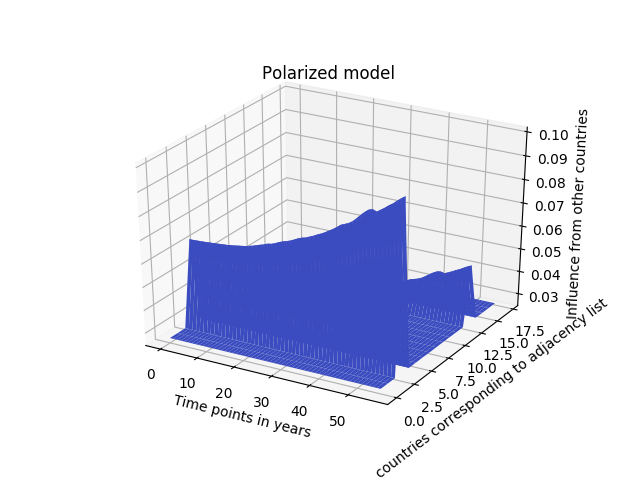
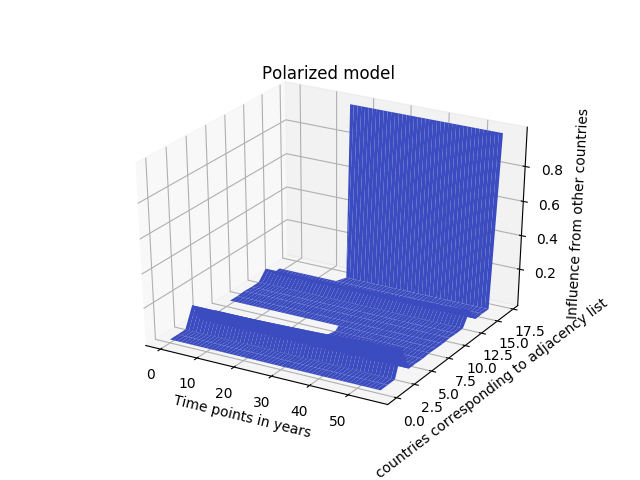
Beautified the reworked polarizations plots.

diff --git a/python/rmse_fitter.py b/python/rmse_fitter.py
@@ -1,0 +1,136 @@
+#!/usr/bin/python3
+"""
+created by alex on 2/10/18
+
+fits r and epsilon based on the best rmse
+"""
+
+
+import numpy as np
+import pandas as pd
+
+
+def rmse(predictions, targets):
+	"""
+	Computes the root mean squared error
+
+	:param predictions: predicted values
+	:param targets: Actual values
+
+	:return: root mean squared error
+	"""
+	return np.sqrt(((predictions - targets) ** 2).mean())
+
+
+def normalize(x, min_x, max_x):
+	"""
+	Goal of this function is to normalize passed data given the min and max of the data to fit in 0 - 1
+
+	:param x: Array Like structure: The data to be normalized
+	:param min_x: Float like: The minimum of the data set
+	:param max_x: Float like: The maximum of the data set
+
+	:return: Array: The normalized data in an array with values ranging from 0 to 1
+	"""
+	return (x - min_x) / (max_x - min_x)
+
+
+def param_value_finder():
+	# Index_col=58 represents dropping out the unnamed column from the csv
+	df = pd.read_csv("data/North_America_GDP.csv", header=0, index_col=58)
+
+	# Generates an numpy nd array with the indexes of 0th index as country array with 57 years as position in array and gdp
+	# Being the value at that 'year'. With index 0 being the name of the country
+	gdp_matrix = df.as_matrix()
+
+	# Find max/min of all years and all countries gdp and set up for construction of 3D array
+	gdp_list = []
+	countries = []
+	years = np.arange(1960, 2017, 1)
+
+	# Loop through the matrix, each array is a country and its gdp for each year so need double for loop
+	for country in gdp_matrix:
+		for gdp in country:
+
+			# If it is a string ignore it and continue (Strings are the 0th index in the array of each country
+			if type(gdp) == str:
+				countries.append(gdp)
+				continue
+
+			gdp_list.append(gdp)
+
+	gdp_min = np.nanmin(gdp_list)
+	gdp_max = np.nanmax(gdp_list)
+
+	# reshape array with rows as countries and columns as year
+	gdp_array = np.asarray(gdp_list).reshape(len(countries), len(years))
+
+	# Normalize the gdp from values of 0 to 1
+	normalized_gdp = normalize(gdp_array, gdp_min, gdp_max).reshape(len(countries), len(years))
+
+	# Data Fitting
+	# Setup
+	normalized_gdp_nans = normalized_gdp[~np.isnan(normalized_gdp)]
+	network_total = np.zeros((len(countries), len(years)))
+	network_tmp = np.zeros((1, len(years)))
+
+	adj_matrix = np.loadtxt("data/adjacencyAmericas.csv", delimiter=",", usecols=list(range(1, 19)), skiprows=1)
+
+	g = np.mean(normalized_gdp_nans)
+
+	r_list = []
+	e_list = []
+	rmse_list = []
+	rmse_array = np.zeros((len(countries), len(years)))
+
+	np.random.seed(0)
+
+	rmse_value = 100
+
+	while rmse_value > 0.001:
+
+		r = np.random.rand()
+		r_list.append(r)
+
+		e = np.random.rand()
+		e_list.append(e)
+
+		rmse_value = 0
+
+		for year in range(len(years)):
+			for country in range(len(countries)):
+
+				u_i = normalized_gdp[country][year]					# Current node value
+				neighbors = np.where(adj_matrix[country] == 1)		# Check for the neighbors of the current node
+				neighbors_i = -1
+
+				if len(neighbors[0] > 0):							# Meaning if they have neighbors or not
+					size = len(neighbors[0])
+
+					while size > 0:									# Add up the neighbors
+						size -= 1
+						neighbors_i = normalized_gdp[neighbors[0][size]][year] + normalized_gdp[neighbors[0][size - 1]]
+
+					neighbors_i = 0.5 * neighbors_i
+
+					# the feedback effect to return to natural internal state G upon deviation
+					fb_i = r * (g - u_i)
+
+					# contribution of neighbors upon polarisation extent
+					pol_i = e * u_i * (1 - u_i) * (neighbors_i - g)
+
+					# put all the contributions together for the iteration
+					u_i_t = u_i + fb_i + pol_i
+
+					network_tmp = u_i_t
+				network_total[country] = network_tmp
+
+				rmse_value = rmse(network_tmp, normalized_gdp[country][year])
+				rmse_array[country][year] = rmse_value
+
+				rmse_list.append(rmse_value)
+
+	e_array = np.array(e_list)
+	r_array = np.array(r_list)
+
+	return r_array[-1], e_array[-1]

diff --git a/python/data_fitting_matrices.py b/python/data_fitting_matrices.py
@@ -4,13 +4,15 @@ created by alex on 2/2/18
 
 Fits the GDP data into the Cobbs Discrete model using matrices
 """
-
 from matplotlib import cm
 from matplotlib import pyplot as plt
+from matplotlib.ticker import MultipleLocator, FormatStrFormatter
 from mpl_toolkits.mplot3d import Axes3D
-
+import matplotlib.patches as mpatches
 import numpy as np
 import pandas as pd
+
+from python import rmse_fitter
 
 
 def normalize(x, min_x, max_x):
@@ -83,8 +85,10 @@ network_tmp = np.zeros((1, len(years)))
 adj_matrix = np.loadtxt("data/adjacencyAmericas.csv", delimiter=",", usecols=list(range(1, 19)), skiprows=1)
 
 g = np.mean(normalized_gdp_nans)
-r = 1
-e = 1
+
+params = rmse_fitter.param_value_finder()
+r = params[0]
+e = params[1]
 
 for year in range(len(years)):
 	for country in range(len(countries)):
@@ -110,21 +114,39 @@ for year in range(len(years)):
 
 			# put all the contributions together for the iteration
 			u_i_t = u_i + fb_i + pol_i
+
 			network_tmp = u_i_t
-		network_total[country][:] = network_tmp
+		network_total[country] = network_tmp
 
 # Plotting
-print(network_total)
-fig = plt.figure()
+fig = plt.figure(figsize=(12, 9))
 ax = fig.add_subplot(111, projection='3d')
+
 
 X, Y = np.meshgrid(range(len(years)), range(len(countries)))
 
 surface = ax.plot_surface(X, Y, network_total, rstride=1, cstride=1, cmap=cm.coolwarm)
 
+ax.view_init(azim=-20, elev=10)
 ax.set_title('Polarized model')
-ax.set_ylabel('countries corresponding to adjacency list')
-ax.set_xlabel('Time points in years')
-ax.set_zlabel('Influence from other countries')
 
-plt.savefig('figs/polarizations_reworked.png')
+ax.set_xlabel('Time points in years')
+ax.set_zlabel('Change in GDP')
+
+majorLocator = MultipleLocator(1)
+majorFormatter = FormatStrFormatter('%s')
+
+ax.yaxis.set_major_locator(majorLocator)
+ax.yaxis.set_major_formatter(majorFormatter)
+
+ax.set_yticklabels(countries, rotation=90)
+
+extraString = 'epsilon={}\nr={}'.format(e, r)
+
+handles, labels = ax.get_legend_handles_labels()
+handles.append(mpatches.Patch(color='none', label=extraString))
+ax.legend(handles=handles, loc='best')
+
+plt.savefig('figs/polarizations_beautified.png')
+
+plt.show()
